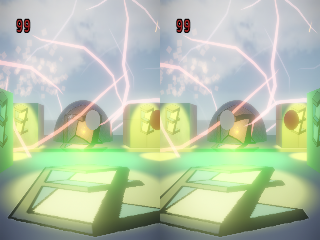
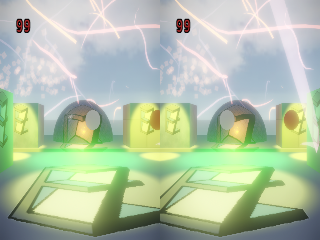
Fix for building precompiled tools (#1878)
Also fixed non-determinism in particle effects and made tests fail when nothing runs (which usually means you used a wrong filter).

Pull request: Fix for building precompiled tools
Also fixed non-determinism in particle effects and made tests fail when nothing runs (which usually means you used a wrong filter).

diff --git a/Code/EnginePlugins/ParticlePlugin/Effect/ParticleEffectInstance.cpp b/Code/EnginePlugins/ParticlePlugin/Effect/ParticleEffectInstance.cpp
@@ -225,6 +225,13 @@ void ezParticleEffectInstance::PreSimulate()
     m_PreSimulateDuration = ezTime::MakeFromSeconds(0);
   }
 
+  // Ensure the first game-world update after pre-simulation is not throttled by the
+  // invisible-update-rate check. PreSimulate() decrements m_iMinSimStepsToDo to 0, which
+  // would cause Update() to skip simulation if the effect hasn't been rendered yet
+  // (m_EffectIsVisible == 0). Resetting to 1 here forces exactly one non-throttled update,
+  // making simulation deterministic regardless of how much real time elapsed during initialization.
+  m_iMinSimStepsToDo = 1;
+
   if (!IsContinuous())
   {
     // Can't check this at the beginning, because the particle systems are only set up during StepSimulation.

diff --git a/Code/UnitTests/TestFramework/Framework/TestFramework.cpp b/Code/UnitTests/TestFramework/Framework/TestFramework.cpp
@@ -921,6 +921,13 @@ void ezTestFramework::ExecuteNextTest()
 void ezTestFramework::EndTests()
 {
   m_bTestsRunning = false;
+
+  if (GetTestsPassedCount() + GetTestsFailedCount() == 0)
+  {
+    ezTestFramework::Output(ezTestOutput::Error, "No tests were run. The -filter option may not have matched any tests.");
+    m_iTestsFailed++;
+  }
+
   if (GetTestsFailedCount() == 0)
     ezTestFramework::Output(ezTestOutput::FinalResult, "All tests passed.");
   else

diff --git a/Code/Engine/Foundation/Memory/Policies/AllocPolicyStack.h b/Code/Engine/Foundation/Memory/Policies/AllocPolicyStack.h
@@ -85,7 +85,7 @@ public:
     {
       const ezUInt32 uiOffsetMask = ezMath::Bitmask_LowN<ezUInt32>(m_uiMaxAllocSizeLog2);
 
-      m_uiCurrentBucketIndex = lastAlloc.m_uiGlobalOffset >> m_uiMaxAllocSizeLog2;
+      m_uiCurrentBucketIndex = static_cast<ezUInt16>(lastAlloc.m_uiGlobalOffset >> m_uiMaxAllocSizeLog2);
       m_uiCurrentBucketOffset = lastAlloc.m_uiGlobalOffset & uiOffsetMask;
 
       if constexpr (OverwriteMemoryOnFree)
@@ -101,7 +101,7 @@ public:
         if (alloc.m_Ptr != nullptr)
           return;
 
-        m_uiCurrentBucketIndex = alloc.m_uiGlobalOffset >> m_uiMaxAllocSizeLog2;
+        m_uiCurrentBucketIndex = static_cast<ezUInt16>(alloc.m_uiGlobalOffset >> m_uiMaxAllocSizeLog2);
         m_uiCurrentBucketOffset = alloc.m_uiGlobalOffset & uiOffsetMask;
 
         m_Allocations.PopBack();
@@ -142,7 +142,7 @@ private:
     const bool bFitsIntoCurrentBucket = !m_Buckets.IsEmpty() && m_uiCurrentBucketOffset + uiRequestedSize <= uiMaxAllocSize;
     if (!bFitsIntoCurrentBucket)
     {
-      m_uiCurrentBucketIndex = m_Buckets.GetCount();
+      m_uiCurrentBucketIndex = static_cast<ezUInt16>(m_Buckets.GetCount());
 
       auto newBucket = ezMakeArrayPtr(static_cast<ezUInt8*>(m_pParent->Allocate(uiMaxAllocSize, Alignment)), uiMaxAllocSize);
       m_Buckets.PushBack(newBucket);